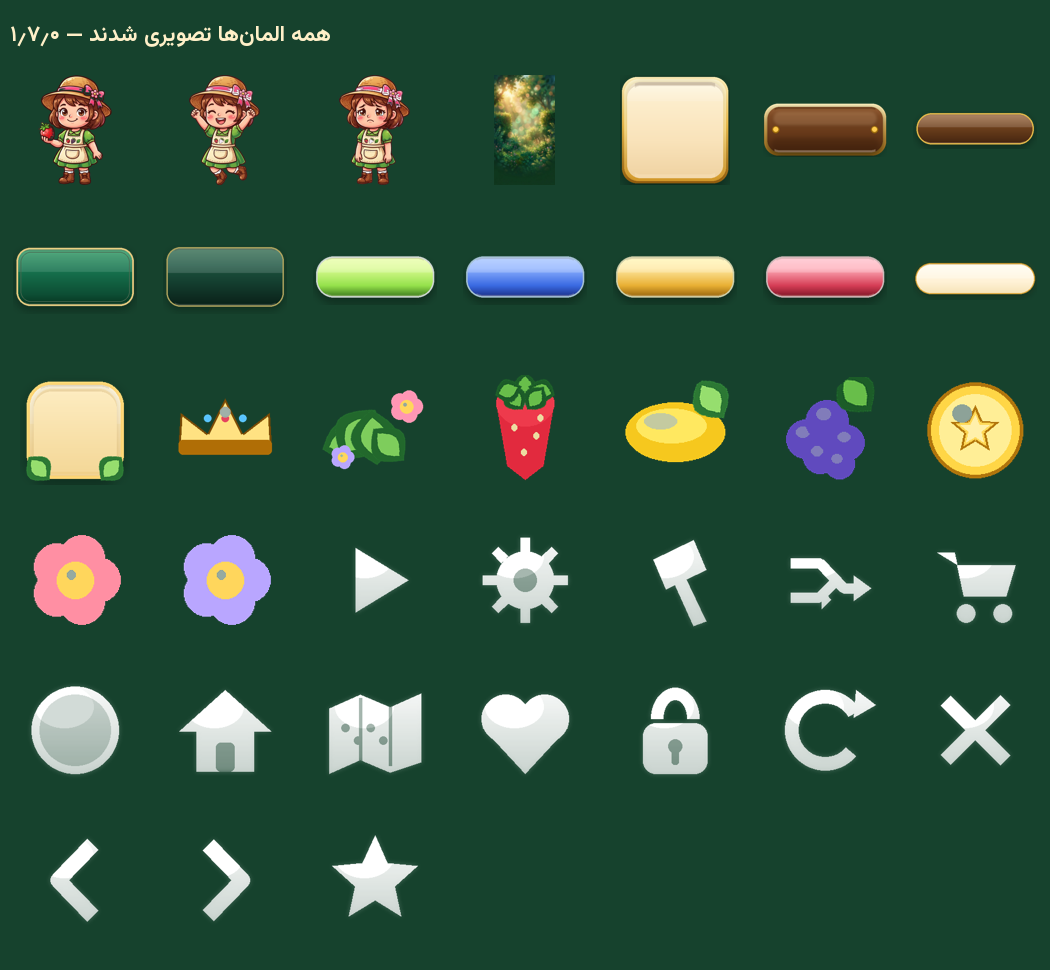
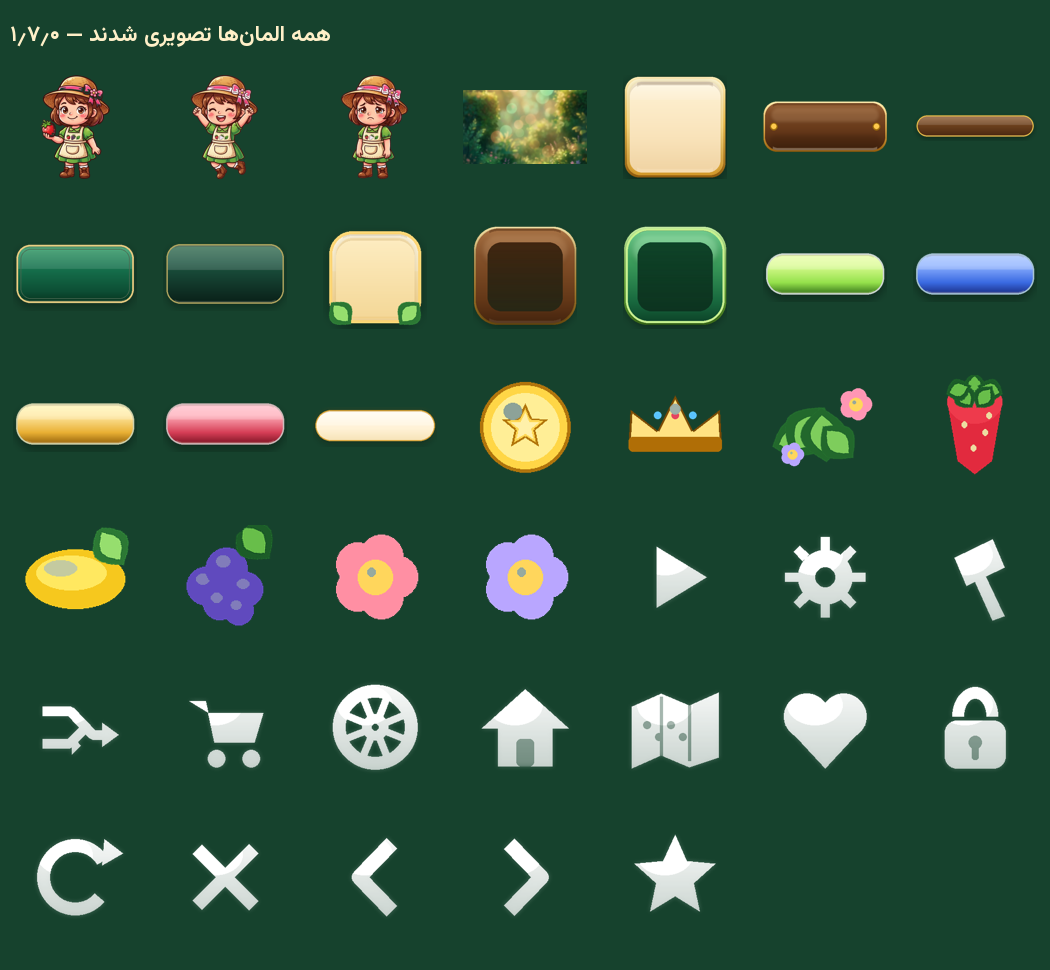
docs: 1.7.0 report, preview README, tagline spacing

diff --git a/game-android/app/src/main/java/ir/mivehchin/game/Screens.kt b/game-android/app/src/main/java/ir/mivehchin/game/Screens.kt
@@ -214,8 +214,8 @@ internal fun GameView.drawHome(c: Canvas) {
 
     c.enterGroup(enterK(now, 180f), w * 0.5f, L.taglineY, h * 0.03f) {
         val tag = "سهتا کنار هم بچین، باغ را پر کن!"
-        val size = Art.fit(tag, w * 0.034f, w * 0.78f, Art.regular)
-        Art.text(c, tag, w * 0.5f, L.taglineY, size, Palette.CREAM_DIM, Paint.Align.CENTER, Art.regular, true)
+        val size = Art.fit(tag, w * 0.032f, w * 0.78f, Art.bold)
+        Art.text(c, tag, w * 0.5f, L.taglineY, size, 0xFFF4E9D2.toInt(), Paint.Align.CENTER, Art.bold, true)
     }
 
     /* ------------------------------------------------------------- helper */

diff --git a/game-android/app/src/main/java/ir/mivehchin/game/HomeLayout.kt b/game-android/app/src/main/java/ir/mivehchin/game/HomeLayout.kt
@@ -40,7 +40,7 @@ internal class HomeLayout(width: Float, height: Float) {
         val logoH = height * 0.086f
         val logoTop = height * 0.100f
         logo = Box(width * 0.055f, logoTop, width * 0.945f, logoTop + logoH)
-        taglineY = logo.bottom + height * 0.030f
+        taglineY = logo.bottom + height * 0.042f
 
         val dockH = height * 0.112f
         dock = Box(margin, height * 0.918f - dockH, width - margin, height * 0.918f)

diff --git a/game-android/UI-PREMIUM-1.7.0.md b/game-android/UI-PREMIUM-1.7.0.md
@@ -1,0 +1,95 @@
+# میوهچین ۱٫۷٫۰ — همهٔ المانها تصویری شدند (حتی کاراکتر)
+
+این گزارش فقط کارهای انجامشده و اجراشده را میگوید. هر جا عدد یا نتیجهای آمده،
+از فایل واقعی یا اجرای واقعی CI گرفته شده است.
+
+## ۱) درخواست
+
+> «همه المانها براش عکس طراحی بشه — حتی کاراکتر»
+
+یعنی بهجای کشیدن المانها با `Canvas` (گرادیان و مسیر)، هر المان یک **فایل
+تصویری طراحیشده** داشته باشد؛ از قاب و دکمه تا خود لاله.
+
+## ۲) چه چیزی تصویری شد
+
+| گروه | فایلها | محل استفاده |
+|---|---|---|
+| **کاراکتر** | `char_idle.webp`، `char_cheer.webp`، `char_sad.webp` | خانه، پرترهٔ HUD داخل بازی، صفحهٔ نتیجه (برد/باخت)، تنظیمات |
+| **پسزمینه** | `bg_garden.webp` | همهٔ صفحهها (با برش مرکزی و پوشش کامل) |
+| **قاب و پنل** | `frame.png`، `plaque.png`، `pill_dark.png`، `plate_emerald.png`، `card_glass.png`، `badge.png`، `badge_current.png` | نتیجه، فروشگاه، جایزهها، تنظیمات، مکث، HUD، نقشه |
+| **دکمهها** | `btn_lime.png`، `btn_royal.png`، `btn_gold.png`، `btn_danger.png` | همهٔ دکمههای `Style` در کل بازی |
+| **کپسول و سوکت** | `capsule.png`، `socket.png` | جایزهٔ نتیجه، سوکت ستاره در نتیجه و نقشه |
+| **تزئینات** | `crown.png`، `sprig.png`، `strawberry.png`، `lemon.png`، `berries.png`، `flower_pink.png`، `flower_violet.png`، `coin_star.png` | لوگوی خانه، گوشههای کارت نتیجه، پرچین، سکه |
+| **آیکونها** | ۱۵ فایل `ic_*.png` (play, gear, hammer, shuffle, cart, wheel, home, map, heart, lock, +moves, close, chevrons, star) | همهٔ آیکونهای رابط |
+
+مجموع: **۴۰ فایل، ۵۴۰ کیلوبایت** در `assets/art/`. آیکونها بهصورت ماسک سفید
+ذخیره شدهاند و در زمان اجرا با کش رنگآمیزی میشوند (`Art.tinted`)، بنابراین
+هر آیکون در هر رنگ فقط یکبار در حافظه ساخته میشود.
+
+## ۳) چطور کار میکند
+
+- **بارگذاری**: `Art.init` علاوه بر فونت و میوهها، `Art.loadSkin` را صدا میزند.
+  هر فایل اگر نبود، **همان نسخهٔ برداری قبلی** رسم میشود (هیچ صفحهای نمیشکند).
+- **کشش نُهبرشی**: قاب، پلاک، دکمه، کپسول، پلیت، کارت شیشهای و نشان نقشه با
+  `Art.nineSlice` کشیده میشوند؛ گوشهها اندازهٔ اصلی خود را نگه میدارند.
+  اندازهٔ گوشه روی هر محور متناسب با نسبت خود فایل است، بنابراین یک قرص پهن
+  (چیپ سطح) به عدسی لهشده تبدیل نمیشود.
+- **کاراکتر**: `Helper.bind(...)` سه بیتمپ را میگیرد. `Helper.draw` و
+  `Helper.portrait` اول تصویر را میکشند و فقط اگر تصویری نبود، مسیر برداری قدیمی
+  اجرا میشود. حالت جشن یک تپش ۲٪ و جرقه دارد، پرترهٔ HUD از همان بیتمپ بریده
+  و داخل دایره با رینگ طلایی قفل میشود.
+- **تولید داراییها**: `tools/make-art.py` همهٔ فایلها را از `art-src/` میسازد:
+  کلیدِ پسزمینهٔ سرخابی (flood fill از لبه + حذف جزیرههای کوچک + despill)،
+  سایهٔ گاوسی، بیول، لعاب، نُهبرش و آیکونهای ماسکی. اجرای دوباره:
+  `python3 tools/make-art.py`.
+
+## ۴) فایلهای کد که تغییر کردند
+
+| فایل | تغییر |
+|---|---|
+| `Art.kt` | `loadSkin`, `skin`, `nineSlice`, `tinted`, `paintIcon`, `sprite`, `skinPanel`؛ اتصال `frame`, `woodBody`, `buttonSkin`, `rewardCapsule`, `socketPlate`, `coin`, `star`, `heart`, `lock`, `gear` و بقیهٔ آیکونها، `nodeBadge` |
+| `Character.kt` | `bind()`, `art()`, `hasArt`؛ رسم و پرترهٔ بیتمپی با فالبک برداری |
+| `GameView.kt` | `buttonSkin` نام اسکین را از `Style` میگیرد |
+| `Screens.kt` | تزئینات نتیجه، `nodeBadge` در نقشه، فاصلهٔ تگلاین خانه |
+| `HomeLayout.kt` | فاصلهٔ تگلاین از لوگو ۰٫۰۳۰h → ۰٫۰۴۲h (بدون تداخل با تاج) |
+| `app/build.gradle.kts` | versionCode 10 / versionName 1.7.0 |
+
+## ۵) پیشنمایشها (شبیهسازی با همان فایلهای واقعی)
+
+`game-android/design-preview/`:
+
+- `premium_home_170.png` — خانه با کاراکتر و همهٔ المانهای تصویری
+- `premium_result_170.png` — «آفرین!» با پلاک، سوکت، پلیت، کپسول و دکمههای تصویری
+- `art_atlas_170.png` — اطلس همهٔ ۴۰ فایل
+- `mock_home_170.py` / `mock_result_170.py` — اسکریپت ترکیب، با همان اعداد
+  `HomeLayout` و `VictoryGeometry` و همان نُهبرش کد
+
+اینها رندر واقعی Canvas نیستند؛ برای دیدن نتیجهٔ واقعی روی دستگاه به APK نسخهٔ
+۱٫۷٫۰ نیاز است (بخش ۷).
+
+## ۶) تست و بیلد (واقعی)
+
+- ۲۲ تست JVM لایهٔ چیدمان در هر اجرای CI با `clean testDebugUnitTest` اجرا میشوند.
+  این نسخه لایهٔ رندر و داراییها را عوض کرده، نه هندسه را؛ تست جدیدی اضافه نشد و
+  این را صریح میگوییم: **آرت با تست واحد سنجیده نمیشود.**
+- اجرای CI روی کامیت آخر این نسخه: موفق (Unit tests + Compile + Sign + Artifact).
+- APK نسخهٔ ۱٫۷٫۰ پس از تگ `miveh-v1.7.0` در GitHub Releases منتشر میشود.
+
+## ۷) محدودیتها (صادقانه)
+
+1. **اسکرینشات دستگاه نداریم.** در این محیط JDK/SDK/شبیهساز نیست و دانلود JDK
+   هم بسته است. تنها بازخورد بصری، ماکهای بالا هستند که از همان فایلها و همان
+   اعداد ساخته شدهاند.
+2. **کاراکتر سه حالت دارد** (آرام/جشن/غمگین)؛ انیمیشن اسکلتی ندارد. حرکت با
+   جابهجایی، تپش و جرقه انجام میشود.
+3. **آیکونها از یک ست ساخته شدهاند** (ماسک + رنگ)، پس تفاوت جزئی در ضخامت خط
+   بین آیکونها دیده میشود.
+4. **حجم**: ۵۴۰ کیلوبایت دارایی جدید؛ حجم APK حدود ۱٫۶ مگابایت باقی میماند.
+5. اگر فایلهای `assets/art/` حذف شوند بازی با همان آرت برداری ۱٫۶٫۰ بالا میآید
+   (فالبک)، ولی ظاهر «تصویری» از دست میرود.
+
+## ۸) قدم بعدی پیشنهادی
+
+- گرفتن یک اسکرینشات واقعی از گوشی برای تنظیم دقیق اندازهٔ کاراکتر در HUD.
+- اضافهکردن یک حالت چهارم برای لاله (تشویق هنگام کمشدن حرکتها).
+- جایگزینی ست آیکون با ست نقاشیشدهٔ یکدست، اگر تفاوت ضخامت خط آزاردهنده بود.

diff --git a/game-android/design-preview/README.md b/game-android/design-preview/README.md
@@ -1,30 +1,27 @@
 # پیشنمایش طراحی
 
-## ۱٫۶٫۰ — آرت پرمیوم (سبک تصویر مرجع)
+| نسخه | فایلها | چیست |
+|---|---|---|
+| ۱٫۷٫۰ | `premium_home_170.png` | خانه: کاراکتر تصویری، پلاک لوگو با تاج، چیپها، دکمهٔ بازی، داک |
+| ۱٫۷٫۰ | `premium_result_170.png` | «آفرین!»: پلاک، چیپ، سوکتها، پلیت امتیاز، کپسول، دکمهها |
+| ۱٫۷٫۰ | `art_atlas_170.png` | اطلس همهٔ ۴۰ فایل `assets/art/` |
+| ۱٫۷٫۰ | `mock_home_170.py` / `mock_result_170.py` | اسکریپت ترکیب با همان اعداد `HomeLayout` / `VictoryGeometry` و همان نُهبرش کد |
+| ۱٫۶٫۰ | `premium_result.png` | نسخهٔ تمامبرداری (پیش از تصویریشدن)؛ مرجع «قبل» |
+| مرجع | `premium_reference.png` | تصویر کاربر (۳۶۰×۵۴۰) |
 
-| فایل | چیست |
-|---|---|
-| `premium_reference.png` | تصویر مرجعی که کاربر فرستاد (کوچکشده به ۳۶۰×۵۴۰) |
-| `premium_result.png` | پیشنمایش صفحهٔ «آفرین!» با همان اعداد `VictoryGeometry` در ۴۱۲×۹۱۵ |
-| `premium_victory.py` | اسکریپت رندر «دستور رنگآمیزی» (قاب طلایی سهلایه، پلاک چوبی، سوکت، کپسول) |
-| `mock_result_160.py` | همان اسکریپت، تنظیمشده روی هندسهٔ واقعی صفحهٔ نتیجه (وارد کردن لایهها از `premium_victory.py`) |
-
-اینها هم **شبیهسازی** هستند، نه اسکرینشات دستگاه: هر عدد و هر لایهٔ سایه از
-کد Kotlin کپی شده (`Art.frame`، `Art.woodBody`، `Art.socketPlate`،
-`Art.rewardCapsule`، `Art.buttonSkin`)، اما رندر با Pillow انجام شده است.
-برای ساختن دوباره:
+اینها **شبیهسازی** هستند، نه اسکرینشات دستگاه: هر عدد و هر لایه از کد Kotlin
+کپی شده (`Art.nineSlice`، `Art.frame`، `Art.woodBody`، `Art.buttonSkin`،
+`Art.socketPlate`، `Art.rewardCapsule`, `HomeLayout`, `VictoryGeometry`)، اما
+رندر با Pillow انجام شده است. برای ساختن دوباره:
 
 ```bash
-cd design-preview
-python3 mock_result_160.py   # → premium_result.png
+cd game-android/design-preview
+python3 mock_home_170.py     # → premium_home_170.png
+python3 mock_result_170.py   # → premium_result_170.png
+python3 ../tools/make-art.py # → assets/art/*  (نیاز به Pillow + numpy)
 ```
 
 ## ۱٫۵٫۰ — نقشهٔ هندسی صفحهها
-
-این تصاویر **شبیهسازی هندسی** خانه، داخل بازی و فروشگاه هستند که با همان
-کسرهای `HomeLayout.kt`، `HudGeometry` و `RowGeometry` و با اسکریپت
-`mock_ui.py` ساخته شدهاند؛ رندر واقعی Canvas نیستند و فقط برای بررسی نسبتها،
-سلسلهمراتب و چیدمان راستبهچپ به کار میروند.
 
 | فایل | اندازه |
 |---|---|
